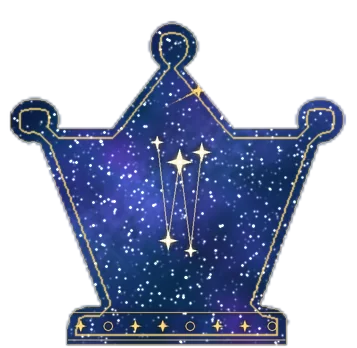
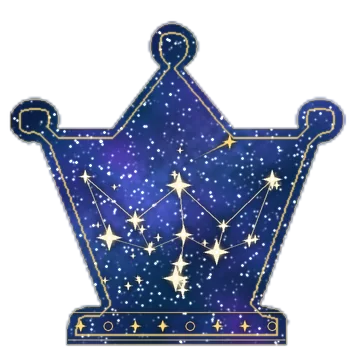
v0.6.9: 별자리 세트 퀸을 폭 전체에 퍼지는 카시오페이아+페르세우스 별자리로 교체
Claude-Session: https://claude.ai/code/session_01BruYFJ8h7Fg1t3GE7dE9QA

diff --git a/scripts/build-skin-pieces.py b/scripts/build-skin-pieces.py
@@ -455,7 +455,8 @@ def decor_coral(sk, key, color, ink, ext, comps):
 CONST = {
     "K": ([(0.38, 0.40), (0.62, 0.38), (0.66, 0.62), (0.36, 0.64), (0.22, 0.26), (0.08, 0.12), (0.78, 0.24), (0.92, 0.10), (0.50, 0.14), (0.10, 0.52), (0.90, 0.50), (0.20, 0.82), (0.50, 0.90), (0.80, 0.84), (0.06, 0.90)],
           [(0, 1), (1, 2), (2, 3), (3, 0), (0, 4), (4, 5), (1, 6), (6, 7), (0, 8), (8, 1), (3, 9), (2, 10), (3, 11), (11, 14), (2, 13), (13, 12), (3, 12), (9, 14), (11, 12), (4, 9), (6, 10)]),   # 헤르쿨레스: 영역 전체에 퍼진 촘촘한 별자리
-    "Q": ([(0.06, 0.25), (0.28, 0.75), (0.5, 0.35), (0.72, 0.8), (0.94, 0.3)], [(0, 1), (1, 2), (2, 3), (3, 4)]),                                                                   # 카시오페이아 W
+    "Q": ([(0.06, 0.22), (0.26, 0.52), (0.50, 0.28), (0.74, 0.56), (0.94, 0.24), (0.10, 0.64), (0.32, 0.72), (0.52, 0.62), (0.72, 0.74), (0.90, 0.66), (0.50, 0.82), (0.47, 0.92), (0.52, 1.00)],
+          [(0, 1), (1, 2), (2, 3), (3, 4), (5, 6), (6, 7), (7, 8), (8, 9), (0, 5), (1, 6), (2, 7), (3, 8), (4, 9), (7, 10), (10, 11), (11, 12)]),   # 카시오페이아 W + 페르세우스 줄 + 꼬리: 폭 전체에 퍼짐
     "R": ([(0.05, 0.3), (0.28, 0.4), (0.5, 0.5), (0.7, 0.55), (0.78, 0.9), (0.98, 0.75), (0.95, 0.3)], [(0, 1), (1, 2), (2, 3), (3, 4), (4, 5), (5, 6), (6, 3)]),                       # 북두칠성
     "B": ([(0.5, 0.05), (0.5, 0.45), (0.5, 0.95), (0.12, 0.38), (0.88, 0.38), (0.3, 0.7)], [(0, 1), (1, 2), (3, 1), (1, 4), (1, 5)]),                                                   # 백조자리(십자)
     "N": ([(0.1, 0.2), (0.45, 0.1), (0.5, 0.5), (0.1, 0.62), (0.85, 0.35), (0.8, 0.9)], [(0, 1), (1, 2), (2, 3), (3, 0), (1, 4), (2, 5)]),                                           # 페가수스 사각형
@@ -486,12 +487,12 @@ def decor_stars(sk, key, color, ink, ext, comps):
     w = color == "w"; rng = np.random.default_rng(55 + ord(key) * 17)
     line = rgba("#3B2F9A", 225) if w else rgba("#FFF0C4", 215); node = rgba("#2A1F7E") if w else rgba("#FFF6D8"); gold = rgba("#B88620") if w else rgba("#FFD97A")
     head, jewels = head_and_jewels(comps, key)
-    ys = sk.top + (sk.bottom - sk.top) * (0.31 if key == "K" else 0.20 if key != "P" else 0.47); yb = sk.base_top - 3 * S
+    ys = sk.top + (sk.bottom - sk.top) * (0.31 if key == "K" else 0.36 if key == "Q" else 0.20 if key != "P" else 0.47); yb = sk.base_top - 3 * S
     pts, edges = CONST[key]
     ya, yz = ys + 2 * S, yb - 3 * S; ym = (ya + yz) / 2
     ax, bx = ext.span(ym); span_w = (min(ext.span(y)[1] for y in (ya, ym, yz)) - max(ext.span(y)[0] for y in (ya, ym, yz))) * 0.78
     cx0 = (ax + bx) / 2.0; P = [(cx0 + (px - 0.5) * span_w, ya + py * (yz - ya)) for px, py in pts]
-    if key == "K":   # 킹은 행마다 실루엣 폭에 맞춰 영역 전체를 채운다 + 배경 잔별
+    if key in ("K", "Q"):   # 킹·퀸은 행마다 실루엣 폭에 맞춰 영역 전체를 채운다 + 배경 잔별
         P = [(ext.at(ya + py * (yz - ya), 0.08 + 0.84 * px), ya + py * (yz - ya)) for px, py in pts]
         for _ in range(16):
             yy_ = rng.uniform(ya, yz); star4(ink, ext.at(yy_, rng.uniform(0.07, 0.93)), yy_, rng.uniform(0.9, 1.6) * S, node, 0.3)
